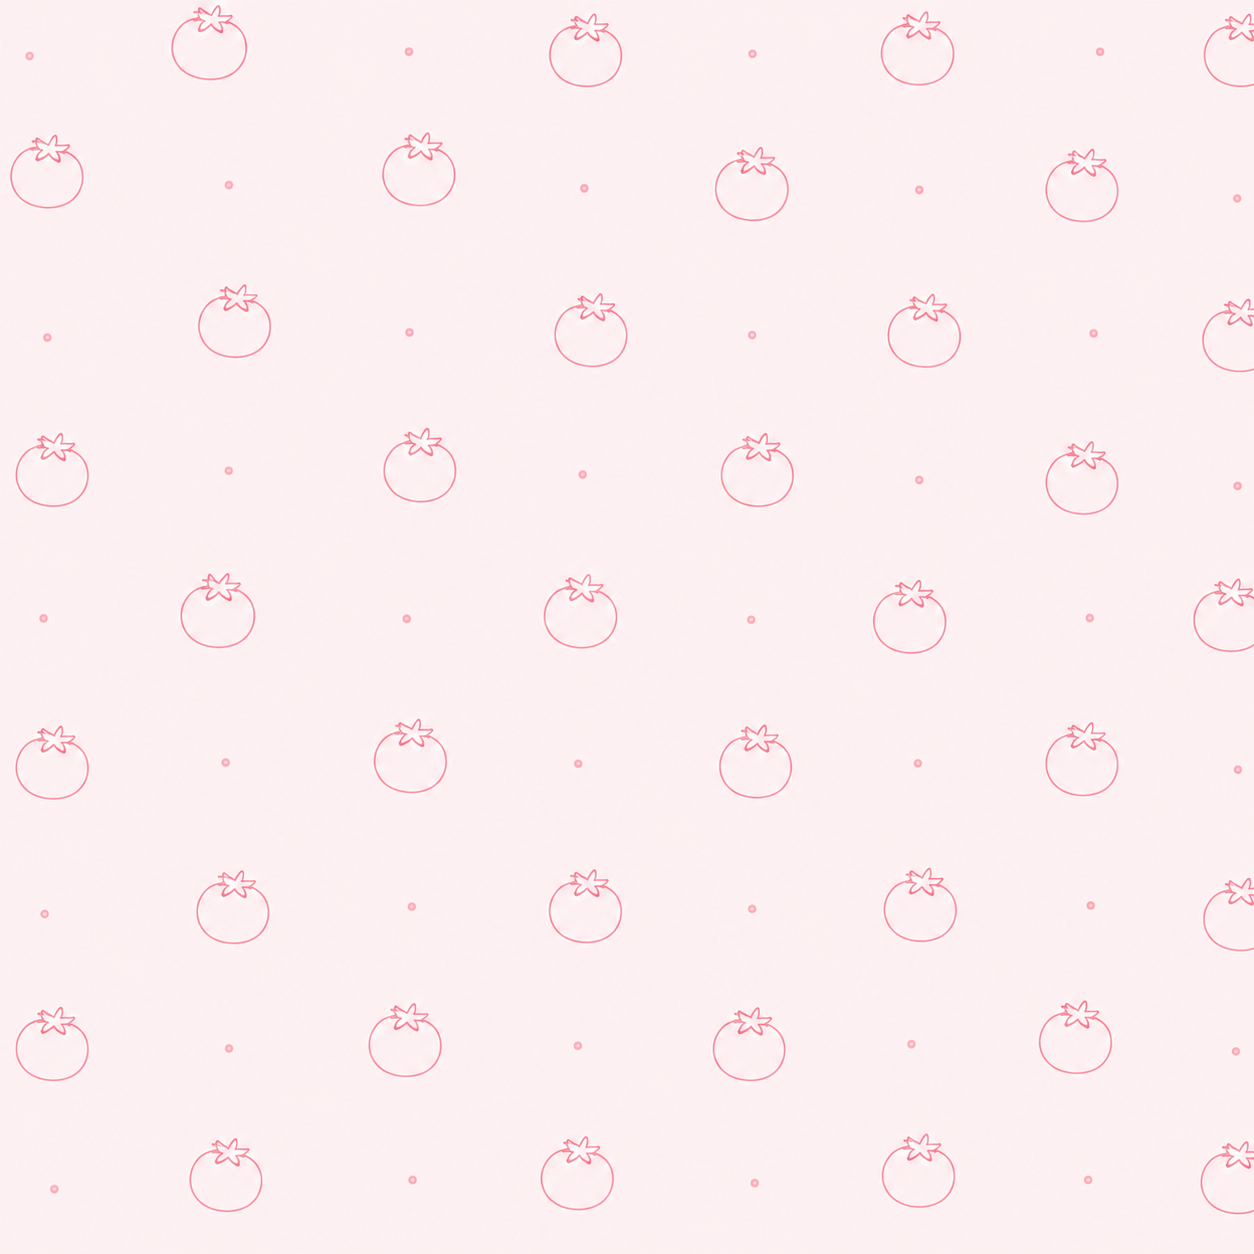
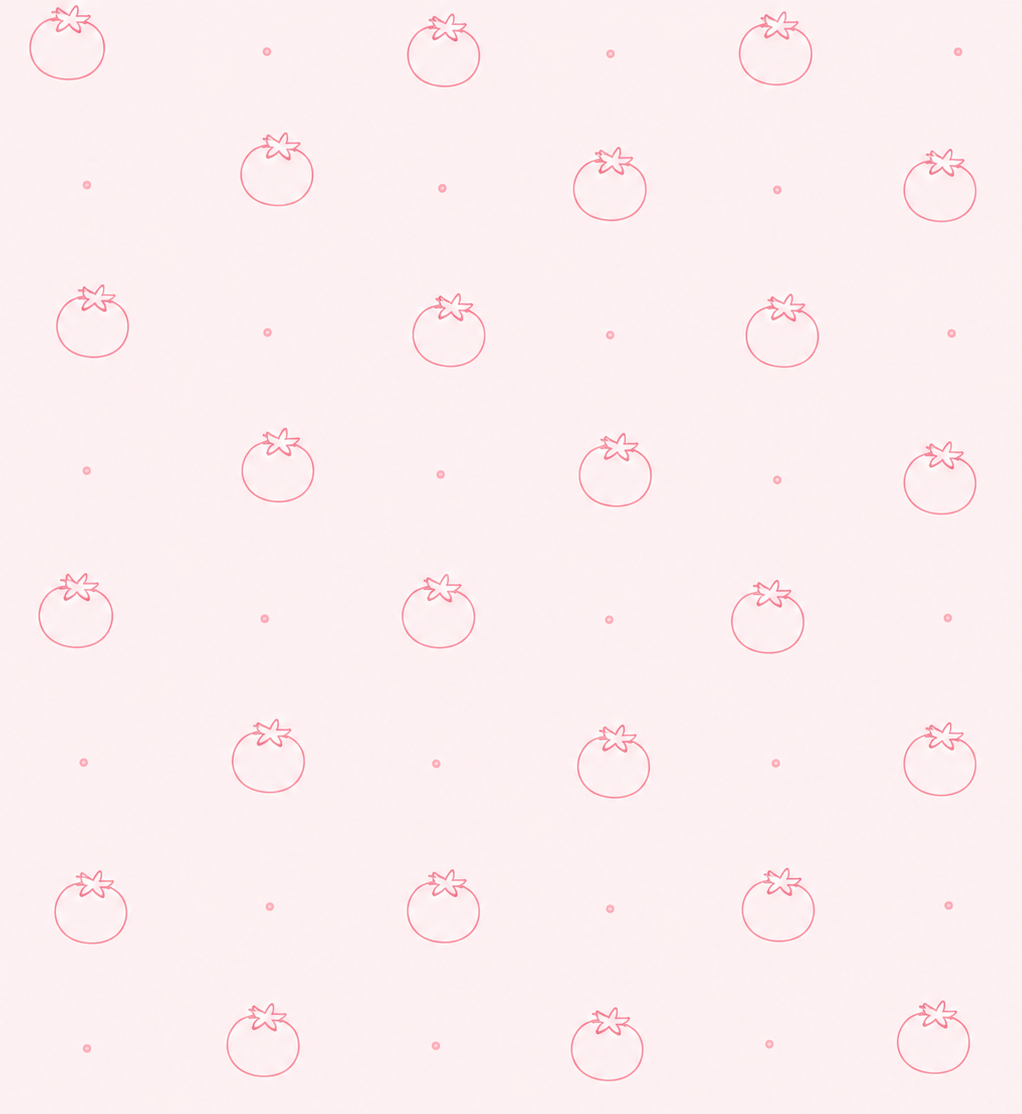
Apply final design adjustments

diff --git a/style.css b/style.css
@@ -15,7 +15,7 @@ body {
     padding: 20px;
     background-image: url("./assets/tomato-pattern.png");
     background-repeat: repeat;
-    background-size: 500px;
+    background-size: 450px;
 }
 
 .pomodoro-card {
@@ -34,8 +34,8 @@ body {
     text-align: center;
 }
 
-.app-header h1 {
-    font-size: 1.9rem;
+.app-header img {
+    width: 45%;
     margin-bottom: 10px;
 }
 

diff --git a/index.html b/index.html
@@ -12,7 +12,7 @@
     <section class="pomodoro-card">
 
     <header class="app-header">
-      <h1>Pomodoro</h1>
+      <img src="./assets/Pomodoro-typograpgy.png">
       <p>Choose your focus intervals and start your session.</p>
     </header>
 
